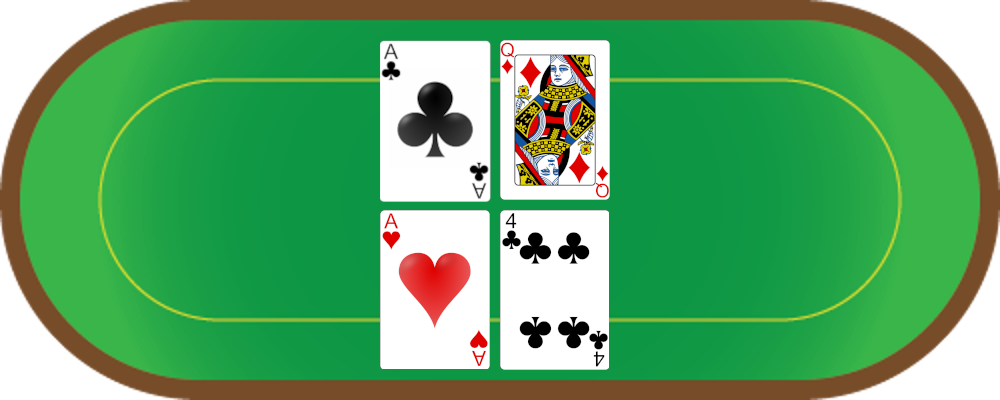
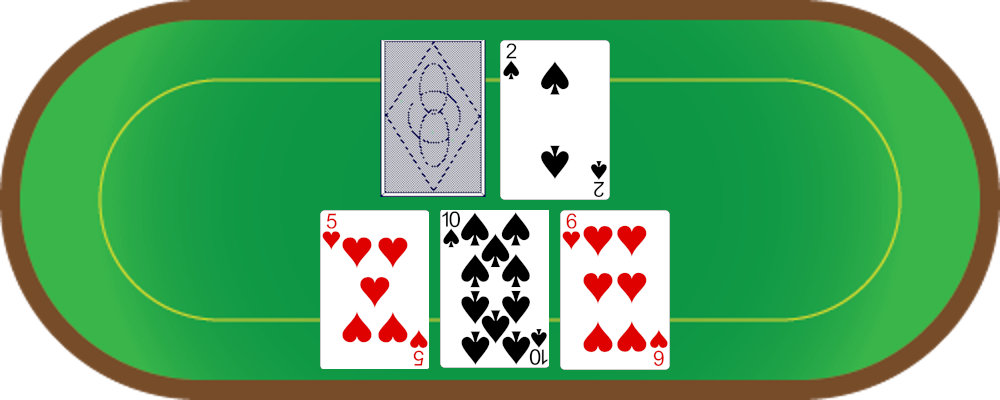
Added changes for proper formatting

Changed region(s): [[0.31, 0.09, 0.682, 0.93]]

diff --git a/src/main/java/com/github/qhss/listeners/ButtonListener.java b/src/main/java/com/github/qhss/listeners/ButtonListener.java
@@ -29,9 +29,9 @@ public class ButtonListener implements ButtonClickListener {
                     bj.dealerPlay();
                     int bet = bj.getBetAmount();
 
-                    if (bj.getScore(bj.getDealer()) == 21) {
+                    if (bj.getScore(bj.getDealer()) == 21 && bj.getDealerCards().length == 2) {
                         message = "You lost! Dealer got Blackjack!";
-                        bet = (int) (2.5 * bet);
+                        bet = (int) (-2.5 * bet);
                     }
                     else if (bj.checkWinner() == 1) {
                         message = "You won!";
@@ -58,7 +58,7 @@ public class ButtonListener implements ButtonClickListener {
                     if (games.containsKey(event.getButtonInteraction().getUser().getDiscriminatedName())) {
                         event.getButtonInteraction().getMessage().delete();
                             new MessageBuilder()
-                                .setEmbed(DefaultEmbeds.finalEmbed(message, username, bj))
+                                .setEmbed(DefaultEmbeds.finalEmbed(message, username, bj, Math.abs(bet)))
                                 .send(event.getButtonInteraction().getChannel().get());
                             Main.getGame().remove(username);
                     }
@@ -79,7 +79,7 @@ public class ButtonListener implements ButtonClickListener {
                         JsonUtils.changeMoney(username, player);
                         
                         new MessageBuilder()
-                                .setEmbed(DefaultEmbeds.finalEmbed("You hit and lost!", username, bj))
+                                .setEmbed(DefaultEmbeds.finalEmbed("You hit and lost!", username, bj, bj.getBetAmount()))
                                 .send(event.getButtonInteraction().getChannel().get());                                
                         Main.getGame().remove(username);
                         break;
@@ -97,7 +97,7 @@ public class ButtonListener implements ButtonClickListener {
                         JsonUtils.changeMoney(username, player);
 
                         new MessageBuilder()
-                                .setEmbed(DefaultEmbeds.finalEmbed("You hit and got 5 in a row, so you won!", username, bj))
+                                .setEmbed(DefaultEmbeds.finalEmbed("You hit and got 5 in a row, so you won!", username, bj, bj.getBetAmount()))
                                 .send(event.getButtonInteraction().getChannel().get());                                
                         Main.getGame().remove(username);
                         break;
@@ -111,13 +111,18 @@ public class ButtonListener implements ButtonClickListener {
 
                     if (games.containsKey(event.getButtonInteraction().getUser().getDiscriminatedName())) {
                         if (bj.getScore(bj.getPlayer()) == 21) {
+                            try {
+                                Main.appendImages(bj, true);
+                            } catch (Exception e) {
+                                // TODO: handle exception
+                            }
                             Player player = bj.getPlayer();
                             player.setMoney(player.getMoney() + bj.getBetAmount());
                             JsonUtils.changeMoney(username, player);
 
                             Main.getGame().remove(username);
                             new MessageBuilder()
-                                .setEmbed(DefaultEmbeds.finalEmbed("You hit and got 21!", username, bj))
+                                .setEmbed(DefaultEmbeds.finalEmbed("You hit and won by getting 21!", username, bj, bj.getBetAmount()))
                                 .send(event.getButtonInteraction().getChannel().get());
                                 break;
                         }
@@ -144,10 +149,11 @@ public class ButtonListener implements ButtonClickListener {
                             player.setMoney(player.getMoney() - 5 * bj.getBetAmount());
                             JsonUtils.changeMoney(username, player);
                             new MessageBuilder()
-                                .setEmbed(DefaultEmbeds.finalEmbed("You doubled-down and lost to Blackjack!", username, bj))
+                                .setEmbed(DefaultEmbeds.finalEmbed("You doubled-down and lost to Blackjack!", username, bj, 5 * bj.getBetAmount()))
                                 .send(event.getButtonInteraction().getChannel().get());
 
                             Main.getGame().remove(username);
+                            break;
                         }
                         bj.dealerPlay();
                         
@@ -176,8 +182,9 @@ public class ButtonListener implements ButtonClickListener {
                         Player player = bj.getPlayer();
                         player.setMoney(player.getMoney() + 2 * bet);
                         JsonUtils.changeMoney(username, player);
+
                         new MessageBuilder()
-                            .setEmbed(DefaultEmbeds.finalEmbed("You doubled-down" + " and " + message, username, bj))
+                            .setEmbed(DefaultEmbeds.finalEmbed("You doubled-down" + " and " + message, username, bj, Math.abs(2 * bj.getBetAmount())))
                             .send(event.getButtonInteraction().getChannel().get());
 
                             Main.getGame().remove(username);

diff --git a/src/main/java/com/github/qhss/listeners/CommandListener.java b/src/main/java/com/github/qhss/listeners/CommandListener.java
@@ -42,7 +42,8 @@ public class CommandListener implements SlashCommandCreateListener {
                                 slashCommandInteraction.createImmediateResponder().setContent("Added! Your init balance: $1000").respond();
                         }
                         else {
-                                slashCommandInteraction.createImmediateResponder().setContent("You're already in the balance sheet!").respond();
+                                array[JsonUtils.findPlayer(array, playerName)].setMoney(1000);
+                                slashCommandInteraction.createImmediateResponder().setContent("Your balance is reset!").respond();
                         }
                         return;
                     }
@@ -64,6 +65,7 @@ public class CommandListener implements SlashCommandCreateListener {
                                 return;
                         }
                         Blackjack bj = new Blackjack(array[JsonUtils.findPlayer(array, playerName)], s.getDecimalValue().get().intValue());
+                        Main.getGame().put(playerName, bj);
                         if (bj.getScore(bj.getPlayer()) == 21) {
                                 try {
                                         Main.appendImages(bj, true);
@@ -77,11 +79,14 @@ public class CommandListener implements SlashCommandCreateListener {
                                 JsonUtils.changeMoney(playerName, player);
 
                                 new MessageBuilder().setEmbed(
-                                DefaultEmbeds.finalEmbed("You've got Blackjack and won!", playerName, bj))
+                                DefaultEmbeds.finalEmbed("You've got Blackjack and won!", playerName, bj, (int) (2.5 * bj.getBetAmount())))
                                         .send(slashCommandInteraction.getChannel().get());
+                                Main.getGame().remove(playerName);
+
+                                // ignores error msg
+                                slashCommandInteraction.createImmediateResponder().respond();
                                 return;
                         }
-                        Main.getGame().put(playerName, bj);
                         try {
                                 Main.appendImages(bj, false);
                         } catch (IOException e) {
@@ -92,6 +97,7 @@ public class CommandListener implements SlashCommandCreateListener {
                         JsonUtils.changeMoney(playerName, player);
                         DefaultEmbeds.defaultMessage("Play Blackjack against dealer!", slashCommandInteraction.getUser(), bj)
                                 .send(slashCommandInteraction.getChannel().get());
+                        slashCommandInteraction.createImmediateResponder().respond();
                     }
                 
     }

diff --git a/src/main/java/com/github/qhss/Main.java b/src/main/java/com/github/qhss/Main.java
@@ -2,22 +2,20 @@ package com.github.qhss;
 
 import org.javacord.api.DiscordApi;
 import org.javacord.api.DiscordApiBuilder;
+import org.javacord.api.entity.channel.TextChannel;
 import org.javacord.api.entity.intent.Intent;
-import org.javacord.api.interaction.*;
-
 import com.github.qhss.listeners.ButtonListener;
 import com.github.qhss.listeners.CommandListener;
 
 import java.awt.*;
 import java.awt.image.BufferedImage;
 import java.io.*;
-import java.util.Arrays;
 import java.util.HashMap;
-import java.util.Set;
 import javax.imageio.ImageIO;
 
 public class Main implements CommandsInit {
     private static HashMap<String, Blackjack> userGame = new HashMap<String, Blackjack>();
+    private static HashMap<String, TextChannel> userChannel = new HashMap<String, TextChannel>();
 
     public static ClassLoader getClassLoader() {
         return Thread.currentThread().getContextClassLoader();
@@ -38,12 +36,8 @@ public class Main implements CommandsInit {
         CommandsInit.init(api);
     }
 
-    public static boolean removeGame(String username) {
-        if (userGame.containsKey(username)) {
-            userGame.remove(username);
-            return true;
-        }
-        return false;
+    public static HashMap<String, TextChannel> getChannel() {
+        return userChannel;
     }
 
     public static HashMap<String, Blackjack> getGame() {
@@ -60,15 +54,16 @@ public class Main implements CommandsInit {
         // paint both images, preserving the alpha channels
         Graphics g = combined.getGraphics();
         g.drawImage(background, 0, 0, null);
+
+        int xDealer = background.getWidth() / 2 - (bj.getDealerCards().length * 60);
+
         if (!fin) {
                 BufferedImage hidden = ImageIO.read(new File("src/main/resources/assets/Back.png"));
-                BufferedImage dealer2 = ImageIO.read(new File(bj.getDealerCards()[1]));
-                g.drawImage(hidden, 360, 40, null); // hidden card
-                g.drawImage(dealer2, 510, 30, null); // actual card
+                BufferedImage dealer2 = ImageIO.read(new File(bj.getDealerCards()[1])); 
+                g.drawImage(hidden, xDealer, 40, null); // hidden card
+                g.drawImage(dealer2, xDealer + 120, 40, null); // actual card
         }
         else {
-                int xDealer = background.getWidth() / 2 - (bj.getDealerCards().length * 60);
-        
                 for (int i = 0; i < bj.getDealerCards().length; i++) {
                         g.drawImage(ImageIO.read(new File(bj.getDealerCards()[i])), xDealer, 40, null);
                         xDealer += 120;
@@ -87,6 +82,5 @@ public class Main implements CommandsInit {
 
         // Save as new image
         ImageIO.write(combined, "PNG", new File("src/main/resources/assets/combined.png"));
-
     }
 }

diff --git a/src/main/java/com/github/qhss/DefaultEmbeds.java b/src/main/java/com/github/qhss/DefaultEmbeds.java
@@ -52,23 +52,22 @@ public interface DefaultEmbeds {
                 );
     }
 
-    static EmbedBuilder finalEmbed(String message, String username, Blackjack bj) {
+    static EmbedBuilder finalEmbed(String message, String username, Blackjack bj, int change) {
         String finalMsg = message.contains("won") ? "You won: " : message.contains("lost") ? "You lost: " : "You tied.";
-        return
-                    new EmbedBuilder()
-                            .setTitle("Blackjack")
-                            .setDescription(message)
-                            .addField("Dealer's Cards: ", String.valueOf(bj.getScore(bj.getDealer())))
-                            .addField("Your Cards: ", String.valueOf(bj.getScore(bj.getPlayer())))
-                            .addInlineField(message + ": ", String.valueOf(5 * bj.getBetAmount()))
-                            .setColor(Color.CYAN)
-                            .setFooter(
-                                    "Your bet: $" + Main.getGame().get(username).getBetAmount())
-                            .setImage(new File("src/main/resources/assets/combined.png"))
-                            .setThumbnail(
-                                    new File(
-                                            Main.getClassLoader()
-                                                    .getResource("assets/profile.png")
-                                                    .getFile()));
+        return new EmbedBuilder()
+                .setTitle("Blackjack")
+                .setDescription(message)
+                .addField("Dealer's Cards: ", String.valueOf(bj.getScore(bj.getDealer())))
+                .addField("Your Cards: ", String.valueOf(bj.getScore(bj.getPlayer())))
+                .addInlineField(finalMsg, String.valueOf(change))
+                .setColor(Color.CYAN)
+                .setFooter(
+                        "Your bet: $" + bj.getBetAmount())
+                .setImage(new File("src/main/resources/assets/combined.png"))
+                .setThumbnail(
+                        new File(
+                                Main.getClassLoader()
+                                        .getResource("assets/profile.png")
+                                        .getFile()));
     }
 }

diff --git a/src/main/java/com/github/qhss/Blackjack.java b/src/main/java/com/github/qhss/Blackjack.java
@@ -50,7 +50,6 @@ public class Blackjack implements CardGame{
 
   public boolean doubleDown() {
        if (player.getHand().size() == 2) {
-           this.betAmount *= 2;
            player.addToHand(deck.getTop());
            player.changeTurn(false);
            return true;
